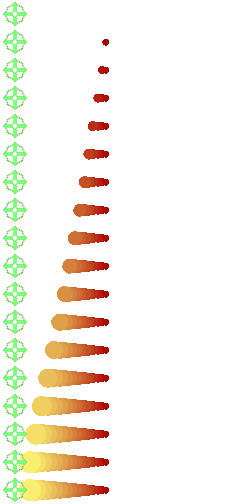
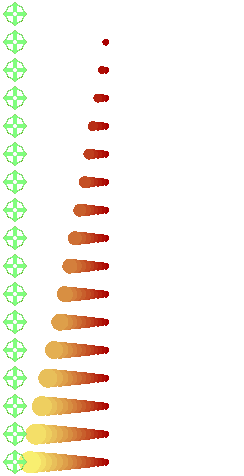
mira casi terminada (falta lo de corregir el zoom) dispara cuando llega a potencia maxima

Changed region(s): [[0.0, 0.0, 0.459, 1.0]]

diff --git a/src/codigo/TP taller/TP taller/Modelo/Juego/Juego.cpp b/src/codigo/TP taller/TP taller/Modelo/Juego/Juego.cpp
@@ -127,13 +127,13 @@ void Juego::chequearNuevosJugadores(){
 
 void Juego::leerEvento(){
 
+	if(this->escenario->getGusanoActivo() != NULL)
+		if( this->escenario->getGusanoActivo()->armaActual.potenciaDisparo >= POTENCIA_MAXIMA_DISPARO) dispararArma();
+
 	 if (this->vista->leerEvento(evento)){
 		 int x, y;
-		 b2Vec2 posGusano;
-		 b2Vec2 posD;
-		 ArmaDibujable* arma;
-	
-                switch(this->vista->getAccion()){
+				
+			switch(this->vista->getAccion()){
 
                 case SALIR:				salir();                                break;
                 case JUGAR:             reiniciar();                            break;
@@ -145,53 +145,19 @@ void Juego::leerEvento(){
 				case ENTER:				this->escenario->enter(true);			break;
 				case SOLTARENTER:		this->escenario->enter(false);			break;
                 case SOLTARARRIBA:		this->escenario->arriba(false);         break;
-				case SOLTARABAJO:		this->escenario->abajo(false);
-                case SOLTARIZQUIERDA:   this->escenario->izquierda(false);
+				case SOLTARABAJO:		this->escenario->abajo(false);			break;
+                case SOLTARIZQUIERDA:   this->escenario->izquierda(false);	
                                         this->escenario->reiniciarTeclas();		break;
 				case SOLTARDERECHA:		this->escenario->derecha(false);
 										this->escenario->reiniciarTeclas();		break; 
 
-				case ESPACIO: 			this->escenario->espacio(true); 
-										
+				case ESPACIO: 			this->escenario->espacio(true); 		
 										break;
 
 				case SOLTARESPACIO:
-
-					if((this->escenario->getGusanoActivo() != NULL)&&(this->escenario->getGusanoActivo()->armaActual.armaTipo != NINGUNA ) && !(this->escenario->getGusanoActivo()->estaMuerto())){
-						posGusano=this->escenario->getFiguraActiva()->getBody()->GetWorldCenter();
-						posD = getPosicionInicialDisparo(posGusano, this->escenario->getGusanoActivo()->armaActual.anguloDisparo, this->escenario->getGusanoActivo()->armaActual.sentidoDisparo, altoGusano/2 + 1.5);
-					
-
-						switch (this->escenario->getGusanoActivo()->armaActual.armaTipo){
-						case BAZOOKA:
-							this->escenario->getGusanoActivo()->setArma(new Bazooka(posD.x, posD.y, 0, this->escenario->getWorld(), false, anchoBazooka, altoBazooka, masaBazooka, radioExplosionBazooka ));
-								arma = this->vista->crearArmaContactoDibujable(posD.x, posD.y, anchoBazooka*relacionPPU,altoBazooka*relacionPPU,rutaBaz,rutaBaz);
-							
-							break;
-				
-						case GRANADA:
-							this->escenario->getGusanoActivo()->setArma(new Granada(posD.x, posD.y, 0, this->escenario->getWorld(), false, radioExplosionGranada, radioGranada, masaGranada , tiempoExplosionGranada));
-							arma = this->vista->crearArmaTiempoDibujable(posD.x, posD.y,  relacionPPU * 2*radioGranada,relacionPPU * 2*radioGranada,rutaGranada,rutaGranada); 
-							break;
-
-						case ALELUYA:
-							this->escenario->getGusanoActivo()->setArma(new Aleluya(posD.x, posD.y, 0, this->escenario->getWorld(), false, radioExplosionAleluya, radioAleluya, masaAleluya ));
-							arma = this->vista->crearArmaTiempoDibujable(posD.x, posD.y,  relacionPPU * 2*radioAleluya,relacionPPU * 2*radioAleluya,rutaAleluya,rutaAleluya); 
-							break;
-
-						case DINAMITA:
-							this->escenario->getGusanoActivo()->setArma(new Dinamita(posD.x, posD.y, 0, this->escenario->getWorld(), false, radioExplosionDinamita, anchoDinamita, altoDinamita, masaDinamita, tiempoExplosionDinamita));
-							arma = this->vista->crearArmaTiempoDibujable(posD.x, posD.y, relacionPPU * anchoDinamita,relacionPPU * altoDinamita,rutaDinamita,rutaDinamita);
-							break;
-					
-						}
-						this->escenario->agregarArma(this->escenario->getGusanoActivo()->getArmaSeleccionada());
-						this->escenario->getGusanoActivo()->getArmaSeleccionada()->agregarObservador(arma);
-						this->escenario->getGusanoActivo()->getArmaSeleccionada()->disparar(this->escenario->getGusanoActivo()->armaActual.sentidoDisparo, this->escenario->getGusanoActivo()->armaActual.potenciaDisparo, this->escenario->getGusanoActivo()->armaActual.anguloDisparo); 
-						this->escenario->espacio(false);
-					}
-
-					break;
+										this->dispararArma();	
+										this->escenario->espacio(false);
+										break;
 
 				case CLICK:     
 						 SDL_GetMouseState(&x,&y);
@@ -210,17 +176,25 @@ void Juego::leerEvento(){
 
 							switch(NUMCLICKDERECHOS % 5){
 
-							case 0: this->escenario->getGusanoActivo()->armaActual.armaTipo = NINGUNA; break;
-							case 1: this->escenario->getGusanoActivo()->armaActual.armaTipo = BAZOOKA; break;
-							case 2: this->escenario->getGusanoActivo()->armaActual.armaTipo = GRANADA; break;
-							case 3: this->escenario->getGusanoActivo()->armaActual.armaTipo = ALELUYA; break;
-							case 4: this->escenario->getGusanoActivo()->armaActual.armaTipo = DINAMITA; break;
+							case 0: this->escenario->getGusanoActivo()->armaActual.armaTipo = NINGUNA;
+									this->escenario->getGusanoActivo()->armaActual.puedeCargarse = false;
+									break;
+							case 1: this->escenario->getGusanoActivo()->armaActual.armaTipo = BAZOOKA;
+									this->escenario->getGusanoActivo()->armaActual.puedeCargarse = true;
+									break;
+							case 2: this->escenario->getGusanoActivo()->armaActual.armaTipo = GRANADA;			
+									this->escenario->getGusanoActivo()->armaActual.puedeCargarse = true;
+									break;
+							case 3: this->escenario->getGusanoActivo()->armaActual.armaTipo = ALELUYA;
+									this->escenario->getGusanoActivo()->armaActual.puedeCargarse = true;
+									break;
+							case 4: this->escenario->getGusanoActivo()->armaActual.armaTipo = DINAMITA;
+									this->escenario->getGusanoActivo()->armaActual.puedeCargarse = false;
+									break;
 							}
 
 						}
 							break;
-
-
                 }
        }
 		
@@ -275,6 +249,47 @@ void Juego::leerEvento(){
 		}
 	}
 
+}
+
+void Juego::dispararArma(){
+
+	b2Vec2 posGusano;
+	b2Vec2 posD;
+	ArmaDibujable* arma;
+
+	if((this->escenario->getGusanoActivo() != NULL)&&(this->escenario->getGusanoActivo()->armaActual.armaTipo != NINGUNA ) && !(this->escenario->getGusanoActivo()->estaMuerto())){
+	posGusano=this->escenario->getFiguraActiva()->getBody()->GetWorldCenter();
+	posD = getPosicionInicialDisparo(posGusano, this->escenario->getGusanoActivo()->armaActual.anguloDisparo, this->escenario->getGusanoActivo()->armaActual.sentidoDisparo, altoGusano/2 + 1.5);
+					
+
+	switch (this->escenario->getGusanoActivo()->armaActual.armaTipo){
+	case BAZOOKA:
+		this->escenario->getGusanoActivo()->setArma(new Bazooka(posD.x, posD.y, 0, this->escenario->getWorld(), false, anchoBazooka, altoBazooka, masaBazooka, radioExplosionBazooka ));
+			arma = this->vista->crearArmaContactoDibujable(posD.x, posD.y, anchoBazooka*relacionPPU,altoBazooka*relacionPPU,rutaBaz,rutaBaz);
+							
+		break;
+				
+	case GRANADA:
+		this->escenario->getGusanoActivo()->setArma(new Granada(posD.x, posD.y, 0, this->escenario->getWorld(), false, radioExplosionGranada, radioGranada, masaGranada , tiempoExplosionGranada));
+		arma = this->vista->crearArmaTiempoDibujable(posD.x, posD.y,  relacionPPU * 2*radioGranada,relacionPPU * 2*radioGranada,rutaGranada,rutaGranada); 
+		break;
+
+	case ALELUYA:
+		this->escenario->getGusanoActivo()->setArma(new Aleluya(posD.x, posD.y, 0, this->escenario->getWorld(), false, radioExplosionAleluya, radioAleluya, masaAleluya ));
+		arma = this->vista->crearArmaTiempoDibujable(posD.x, posD.y,  relacionPPU * 2*radioAleluya,relacionPPU * 2*radioAleluya,rutaAleluya,rutaAleluya); 
+		break;
+
+	case DINAMITA:
+		this->escenario->getGusanoActivo()->setArma(new Dinamita(posD.x, posD.y, 0, this->escenario->getWorld(), false, radioExplosionDinamita, anchoDinamita, altoDinamita, masaDinamita, tiempoExplosionDinamita));
+		arma = this->vista->crearArmaTiempoDibujable(posD.x, posD.y, relacionPPU * anchoDinamita,relacionPPU * altoDinamita,rutaDinamita,rutaDinamita);
+		break;
+					
+	}
+	this->escenario->agregarArma(this->escenario->getGusanoActivo()->getArmaSeleccionada());
+	this->escenario->getGusanoActivo()->getArmaSeleccionada()->agregarObservador(arma);
+	this->escenario->getGusanoActivo()->getArmaSeleccionada()->disparar(this->escenario->getGusanoActivo()->armaActual.sentidoDisparo, this->escenario->getGusanoActivo()->armaActual.potenciaDisparo, this->escenario->getGusanoActivo()->armaActual.anguloDisparo); 
+	this->escenario->getGusanoActivo()->armaActual.potenciaDisparo = 0;
+}
 }
 
 b2Vec2 Juego::getPosicionInicialDisparo(b2Vec2 posGusano, int angulo, bool sentido, double separacion){

diff --git a/src/codigo/TP taller/TP taller/Vista/Sprite/GusanoSprite.cpp b/src/codigo/TP taller/TP taller/Vista/Sprite/GusanoSprite.cpp
@@ -47,8 +47,8 @@ GusanoSprite::GusanoSprite(SDL_Renderer* renderer, SDL_Rect recDestino, string p
 		}
 	}
 
-	this->recPotencia = new SDL_Rect[18];
-	for(int i=0; i<18; i++){
+	this->recPotencia = new SDL_Rect[17];
+	for(int i=0; i<17; i++){
 		this->recPotencia[i].h = 28;
 		this->recPotencia[i].w = 244;
 		this->recPotencia[i].x = 0;
@@ -238,8 +238,9 @@ void GusanoSprite::dibujar(SDL_Renderer *renderer, int corrimientoX,int corrimie
 			SDL_Rect aux = rect;
 			aux.w = 244 * escalaZoom;
 			aux.h = 28 * escalaZoom;
-			aux.y += altoGusano/2 * relacionPPU;
 			aux.x -= (128 - (1.5f * anchoGusano)*relacionPPU);
+			aux.y += altoGusano/2 * relacionPPU;
+
 			if(this->estado == DER)
 				SDL_RenderCopyEx(renderer, this->crosshair, &this->recPotencia[frameCrosshair], &aux, -this->anguloDisparo, 0, flip);
 			else
@@ -290,7 +291,7 @@ void GusanoSprite::actualizarFrameDisparo(int angulo){
 
 void GusanoSprite::actualizarFrameCrosshair(int potencia){
 	
-	this->frameCrosshair = ((float)(18.0f/POTENCIA_MAXIMA_DISPARO)) * potencia;
+	this->frameCrosshair = ((float)(17.0f/POTENCIA_MAXIMA_DISPARO)) * potencia;
 }
 
 int GusanoSprite::getFrame(){

diff --git a/src/codigo/TP taller/TP taller/Modelo/Escenario/Escenario.cpp b/src/codigo/TP taller/TP taller/Modelo/Escenario/Escenario.cpp
@@ -400,9 +400,10 @@ void Escenario::moverse(){
 
 void Escenario::cargarDisparo(){
 	if((puedeDisparar)&&(this->gusanoActivo != NULL)&&(this->gusanoActivo->armaActual.armaTipo != NINGUNA)){ 
-		if(this->gusanoActivo->armaActual.potenciaDisparo < POTENCIA_MAXIMA_DISPARO)
-			this->gusanoActivo->armaActual.potenciaDisparo += AUMENTO_POTENCIA;
-
+		if(this->gusanoActivo->armaActual.puedeCargarse){
+			if(this->gusanoActivo->armaActual.potenciaDisparo < POTENCIA_MAXIMA_DISPARO)
+				this->gusanoActivo->armaActual.potenciaDisparo += AUMENTO_POTENCIA;
+		}
 		//cout<<this->getGusanoActivo()->armaActual.potenciaDisparo<<endl;
 	}else{
 		this->gusanoActivo->armaActual.potenciaDisparo = 0;

diff --git a/src/codigo/TP taller/TP taller/Modelo/Figuras/Gusano.cpp b/src/codigo/TP taller/TP taller/Modelo/Figuras/Gusano.cpp
@@ -15,6 +15,7 @@ Gusano::Gusano(float x, float y, short int rotacion, b2World* world, bool estati
 	this->armaActual.armaSeleccionada = NULL;
 	this->armaActual.armaTipo = NINGUNA;
 	this->armaActual.sentidoDisparo = true;	//true = izq
+	this->armaActual.puedeCargarse = false;
 	
 
 	b2PolygonShape rectanguloShape;

diff --git a/src/codigo/TP taller/TP taller/Modelo/Juego/Juego.h b/src/codigo/TP taller/TP taller/Modelo/Juego/Juego.h
@@ -43,6 +43,8 @@ private:
 	static void servidorLoop(void * arg);
 	static void clienteLoop(void * arg);
 	static string jugadorActual;
+
+	void dispararArma();
 	//para setear el arma mas facil mientras se prueba
 	int NUMCLICKDERECHOS;
 public:

diff --git a/src/codigo/TP taller/TP taller/Modelo/Figuras/Gusano.h b/src/codigo/TP taller/TP taller/Modelo/Figuras/Gusano.h
@@ -27,6 +27,7 @@ private:
 		float anguloDisparo;
 		float potenciaDisparo;
 		bool sentidoDisparo;
+		bool puedeCargarse;
 	}armaStruct;
 
 public:
